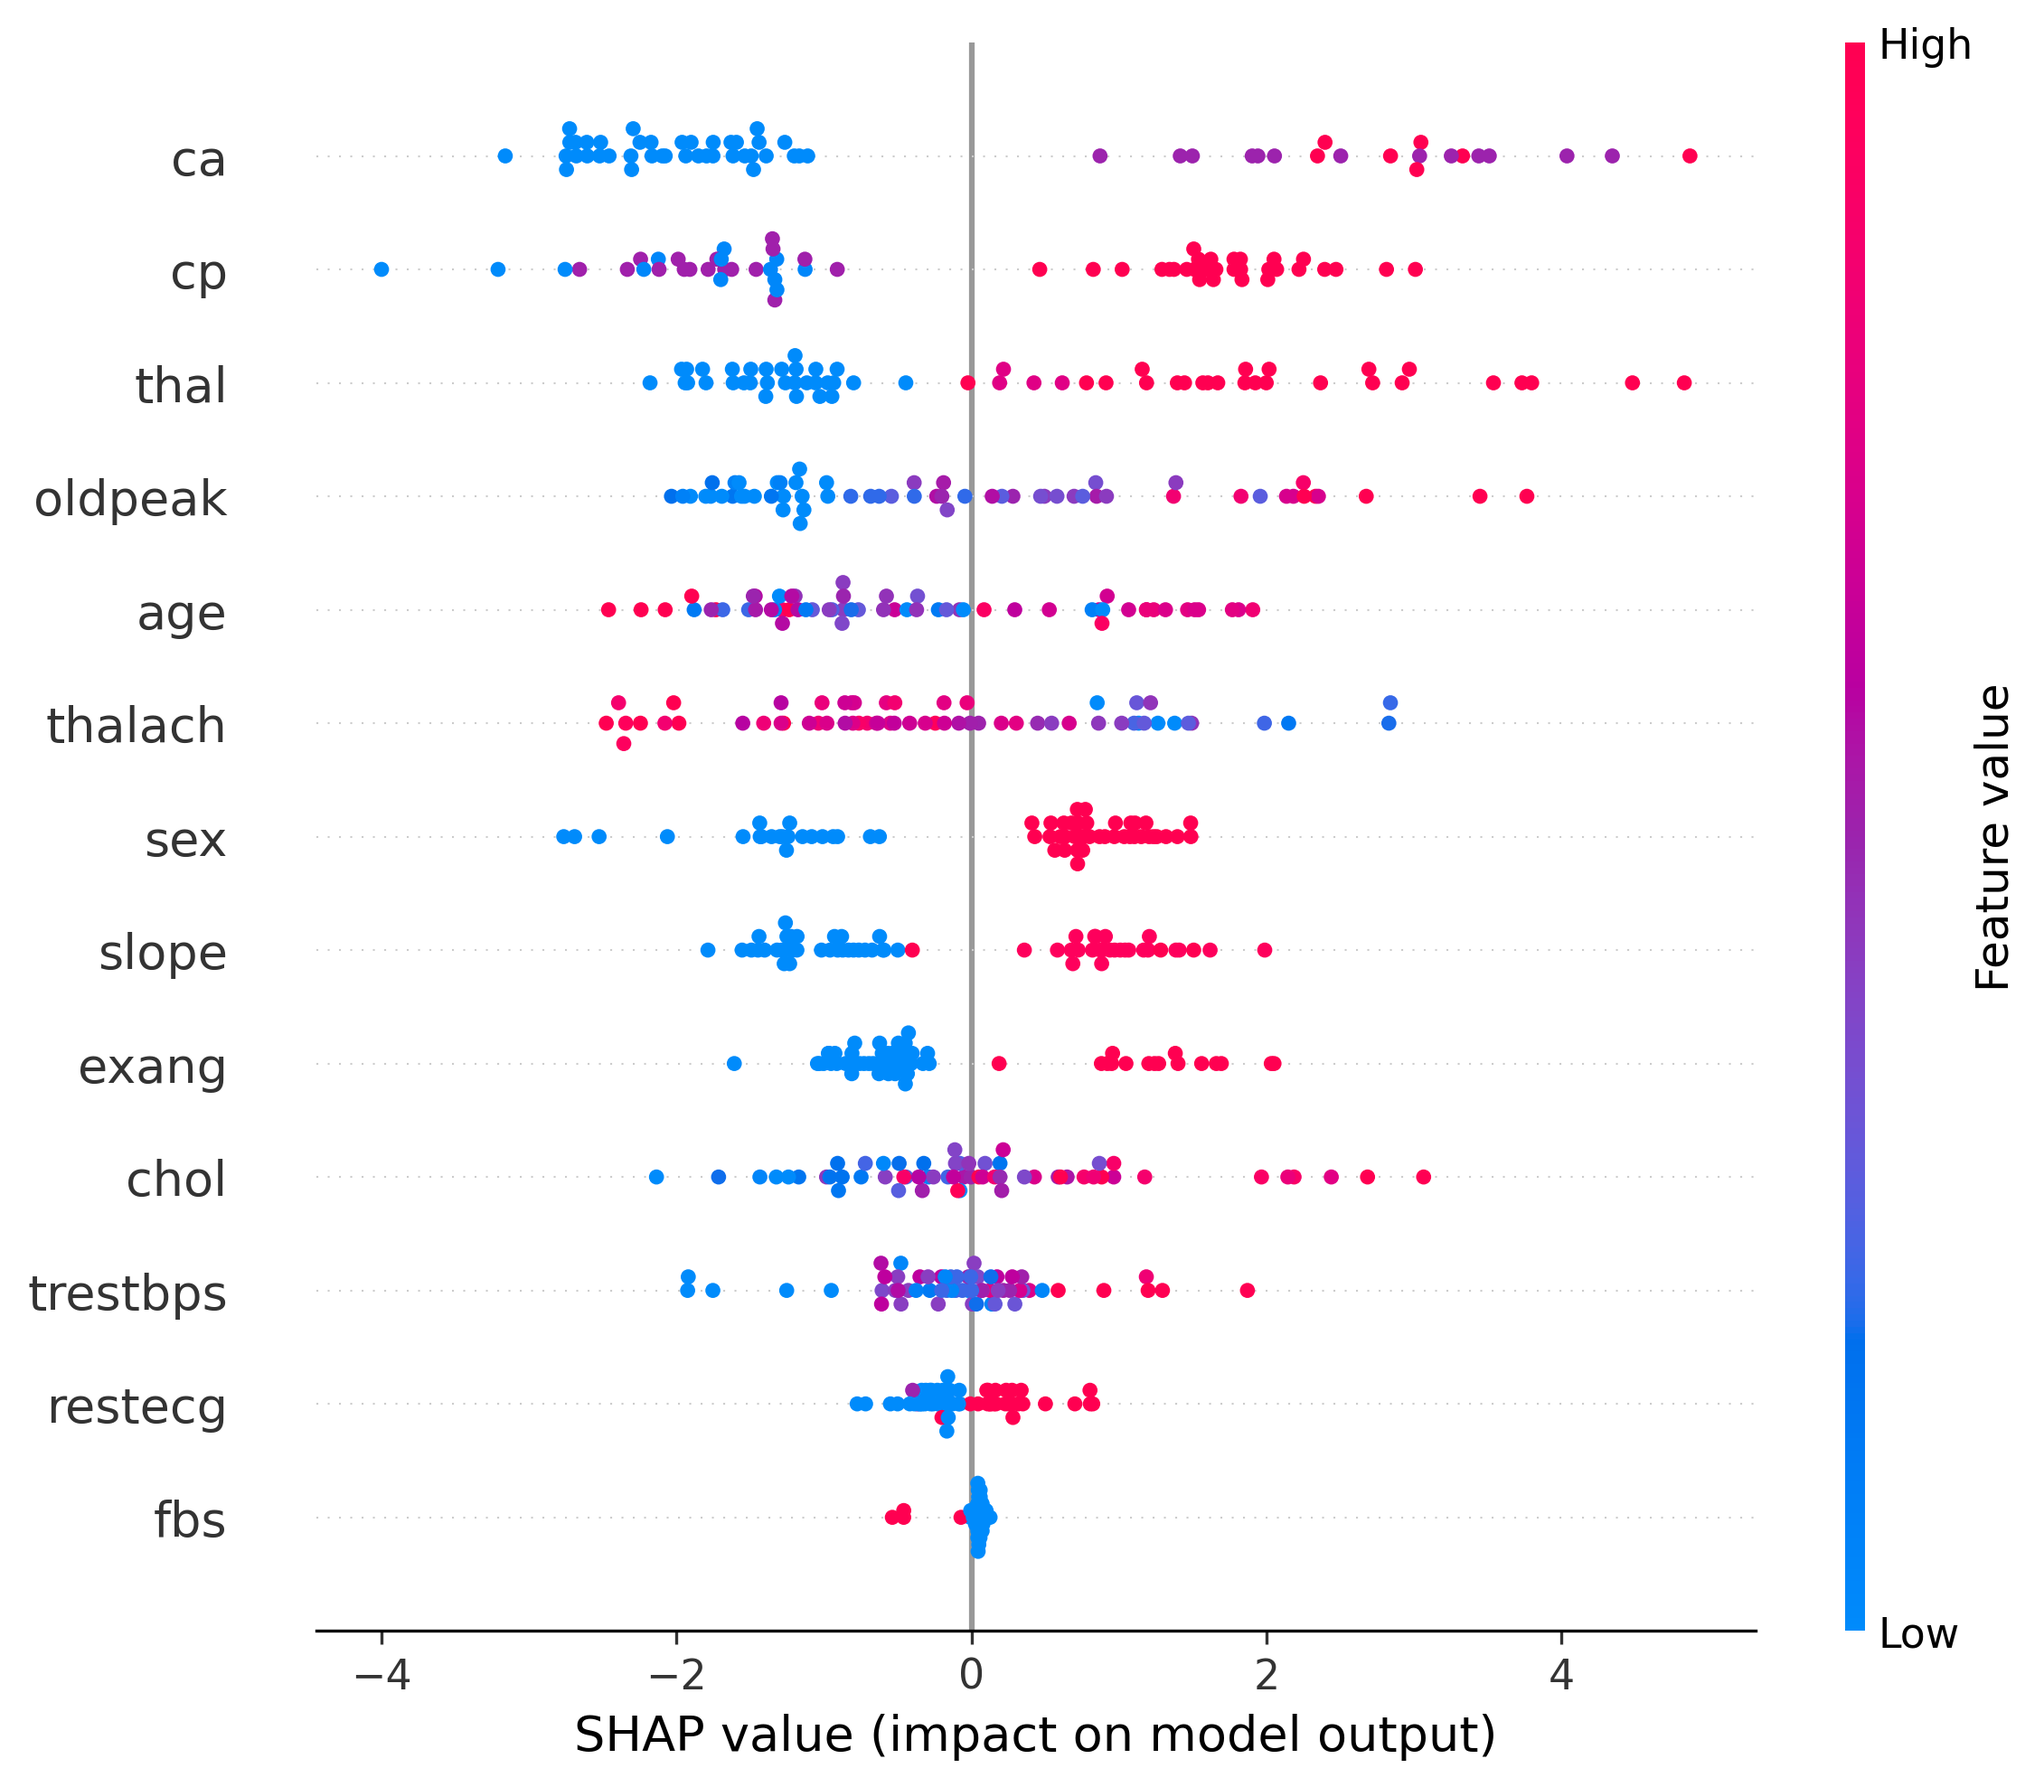
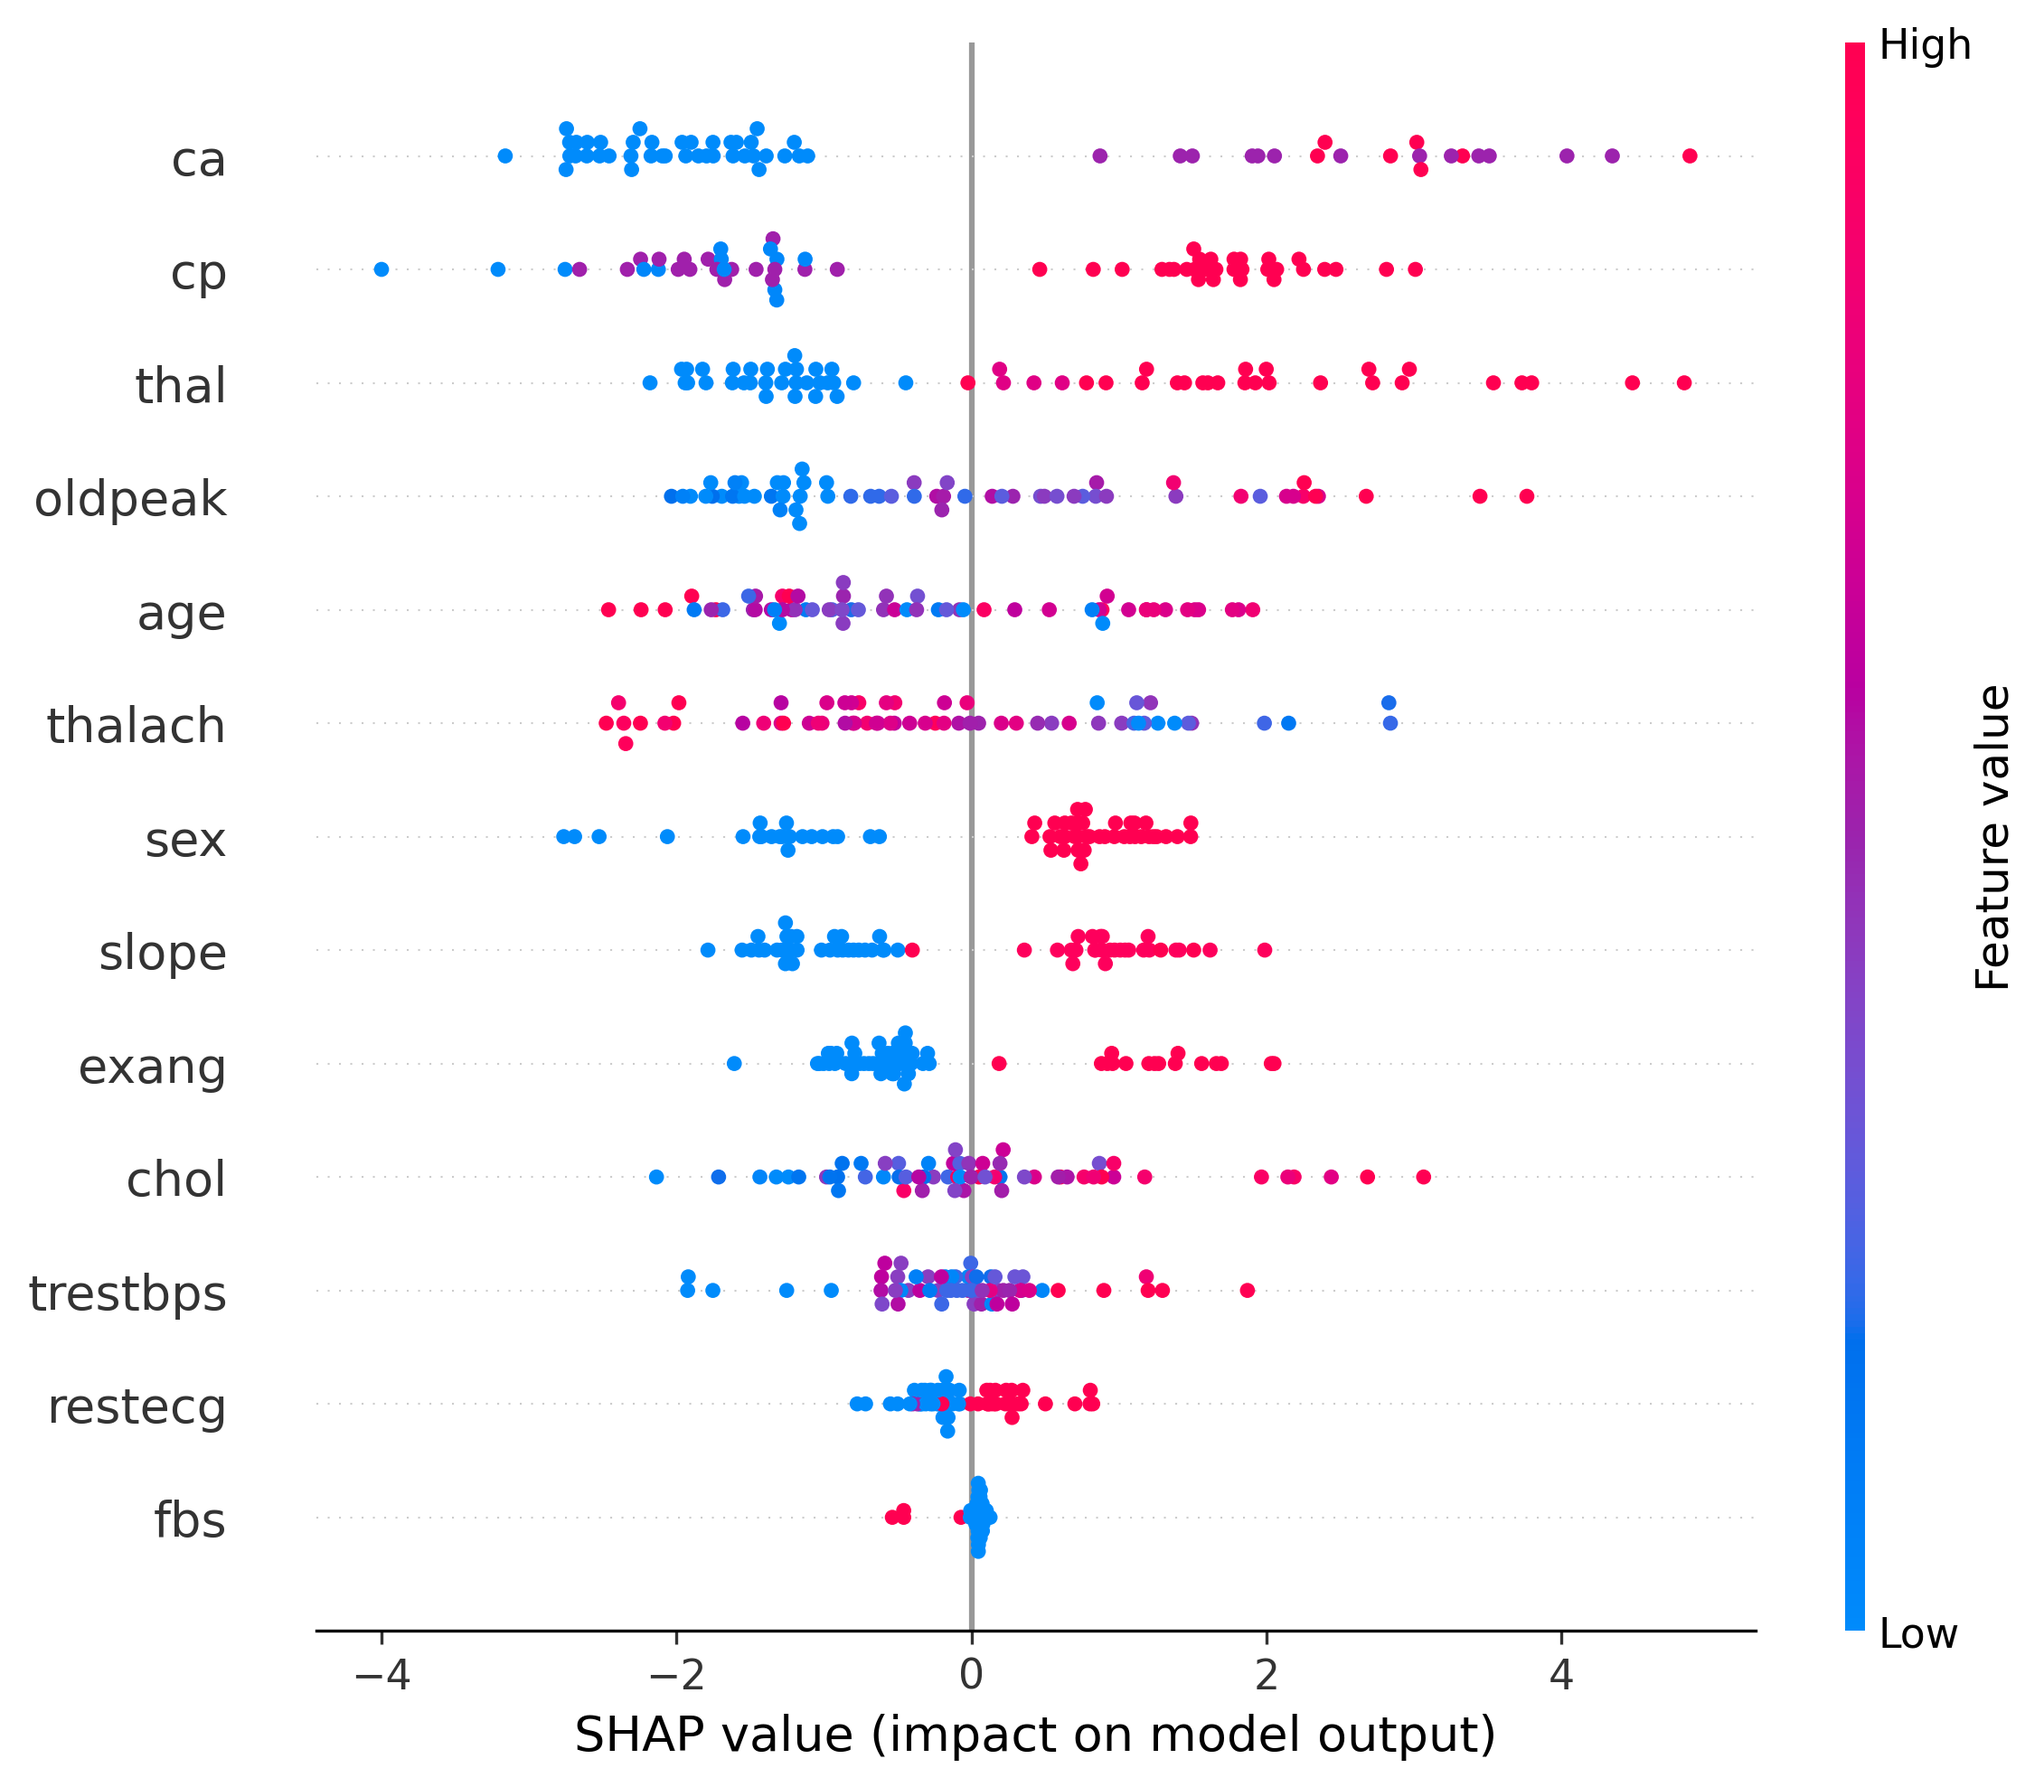
chainging the K value to 10

diff --git a/Models/86A_Centraliesed_Ridge_Classifier.py b/Models/86A_Centraliesed_Ridge_Classifier.py
@@ -68,7 +68,7 @@ base_models = [
 # ==============================
 # 4⃣ Stacking using K-Fold
 # ==============================
-kf = KFold(n_splits=5, shuffle=True, random_state=42)
+kf = KFold(n_splits=10, shuffle=True, random_state=42)
 train_meta = np.zeros((X_train.shape[0], len(base_models)))
 test_meta = np.zeros((X_test.shape[0], len(base_models)))
 
